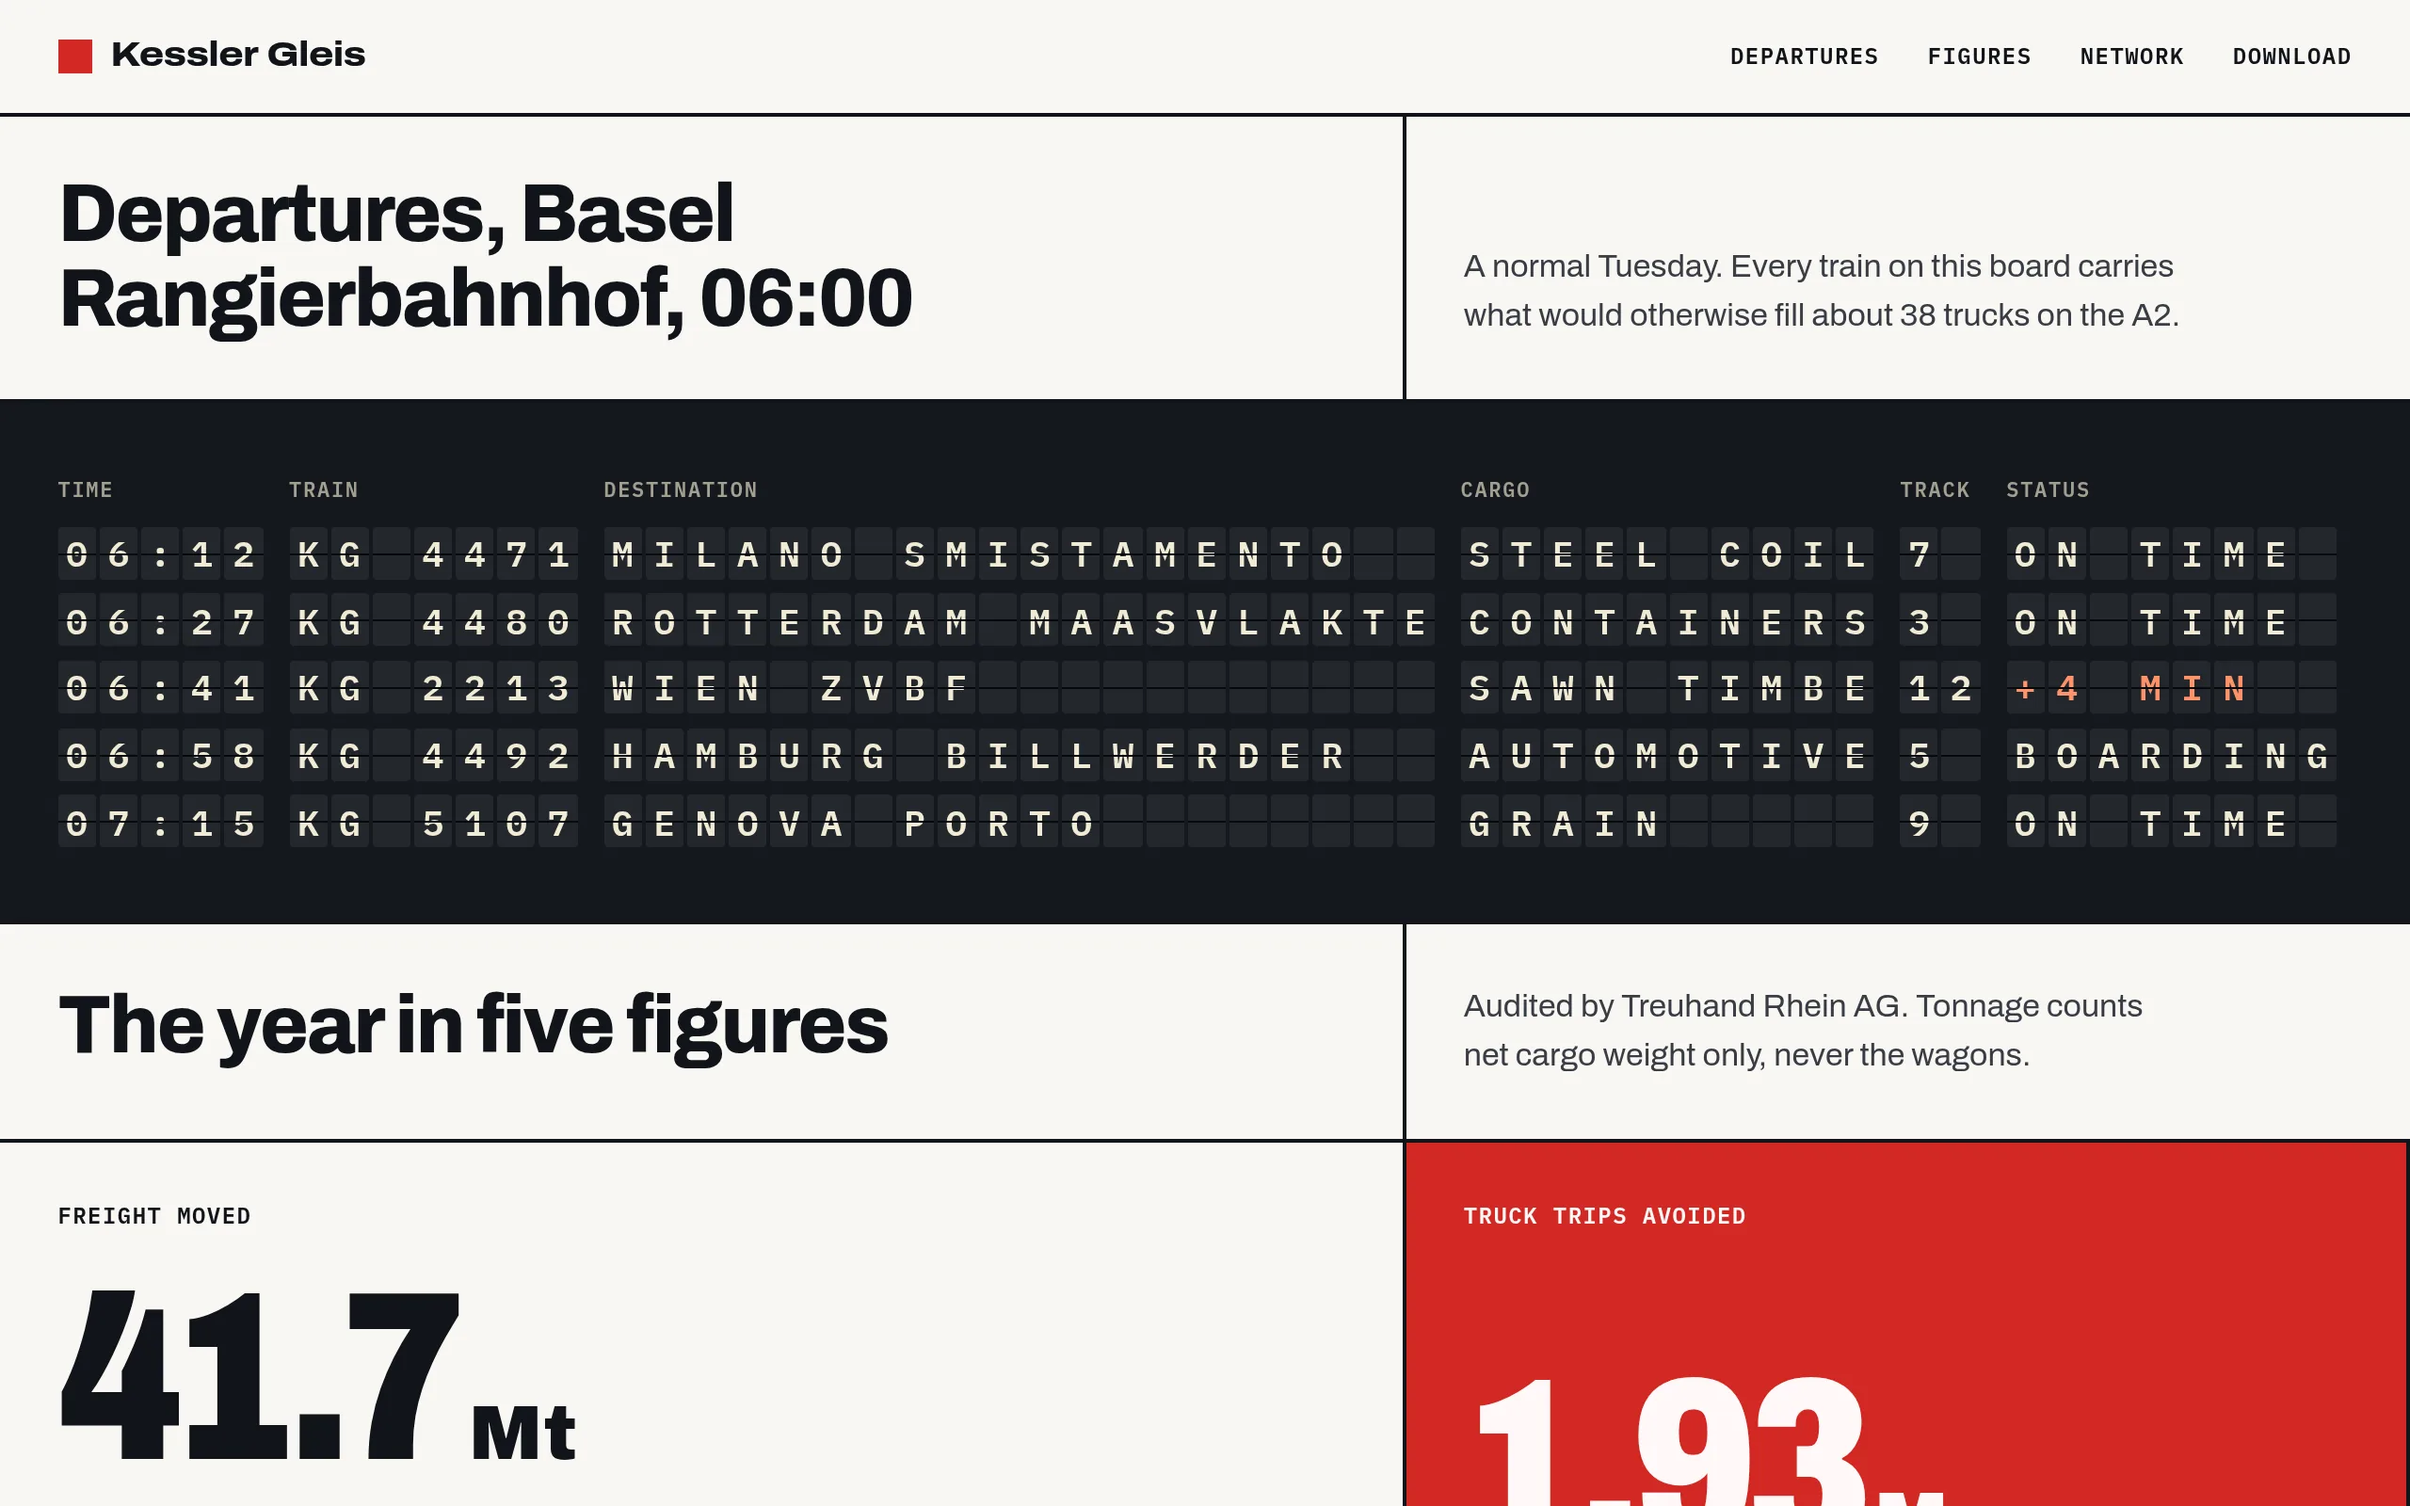
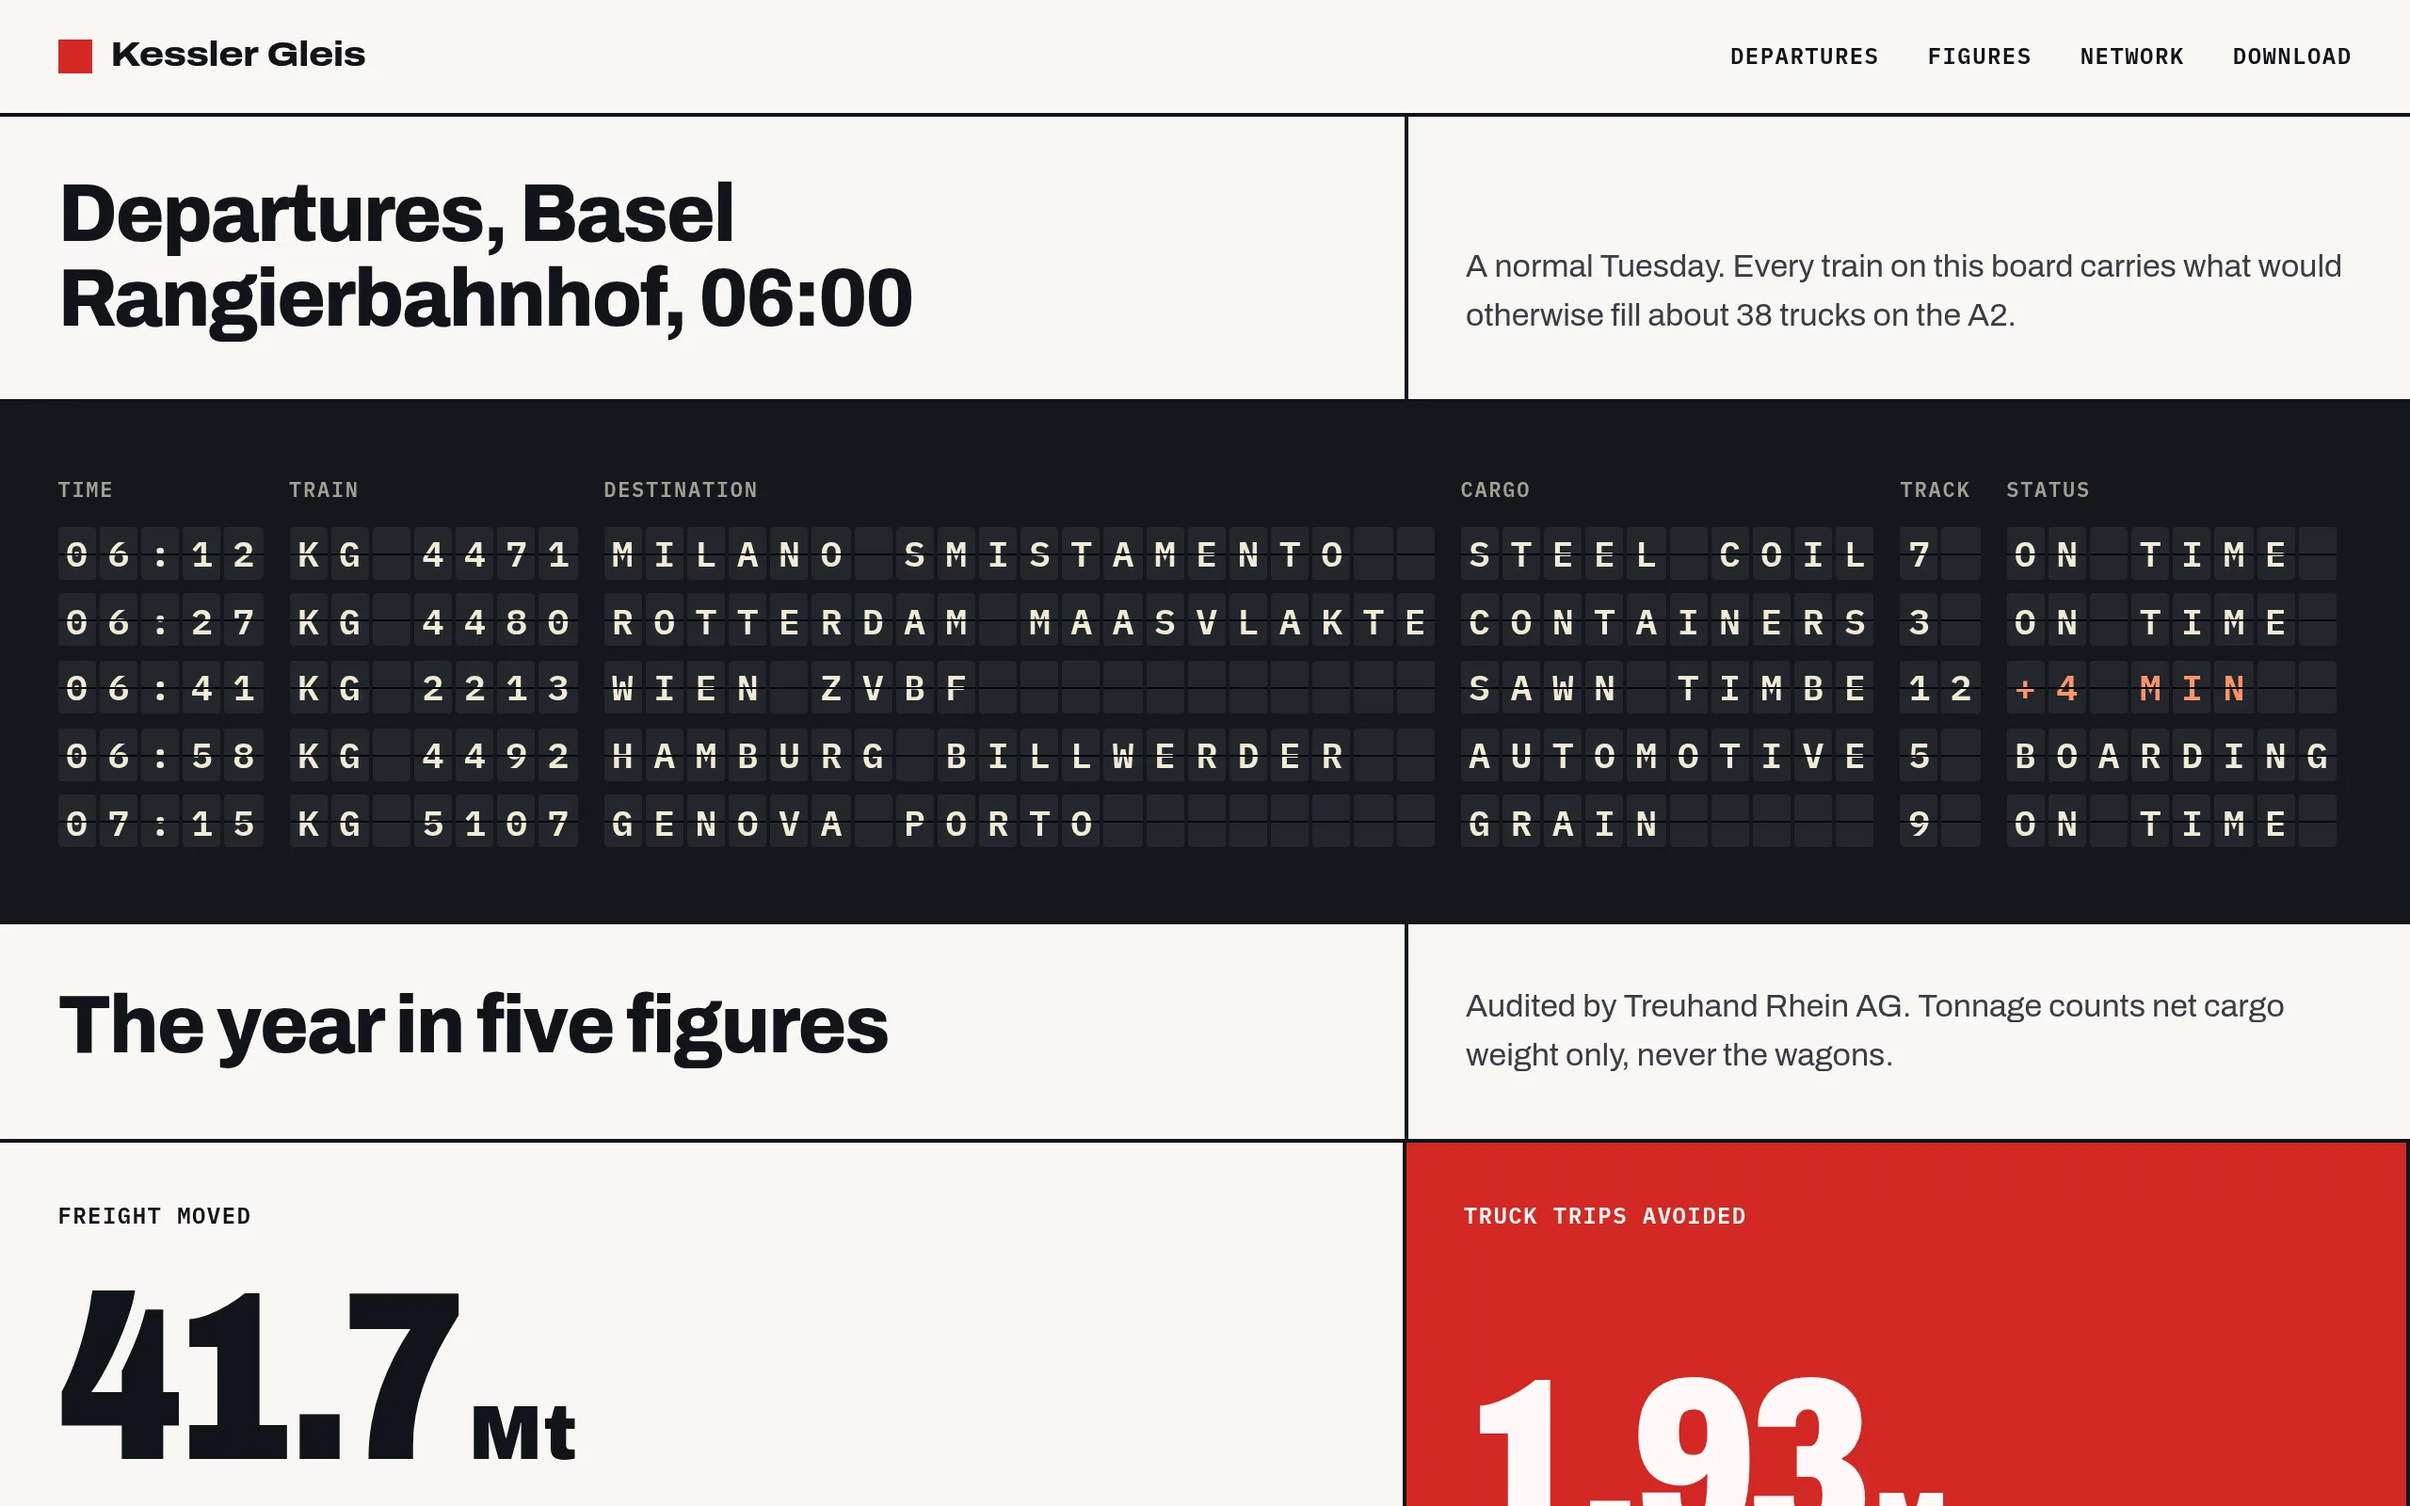
fix: preflight grid-rule false positive and template layout bugs
- preflight: SIDE_STRIPE_BORDER skips a side border paired with a
  top/bottom border of the same weight on the same line (a grid cell
  edge). Tests for the negative and positive case.
- swiss-report: section-head divider drawn as a grid gap instead of a
  lone border-right; the text cell fills its area (no ink showing
  through). Phone sideways scroll fixed at the root: screen-reader
  spans in the departure board escaped the scroller, so the scroller is
  now position:relative and the overflow-x:clip workaround is gone.
- depth-launch: springs critically damped (16, was 14.2) so layers no
  longer overshoot past the rim or plate and sort wrong; bottom row gains
  the missing right Ctrl (84 keys, 16u) in the lite page and the
  colourway preview.
- README screenshots refreshed; CHANGELOG updated.

Changed region(s): [[0.5938, 0.1562, 0.9688, 0.2188], [0.5938, 0.6562, 0.9375, 0.7188]]

diff --git a/templates/depth-launch.html b/templates/depth-launch.html
@@ -350,7 +350,7 @@ footer{padding:32px 0 48px;color:var(--muted);font-size:13px}
 
 <script>(() => {
 
-const D = {"W":760,"H":540,"pad":22,"up":[0,-1.1594243528753054],"boxA":[147.1,325.8,612.9,518],"boxB":[147.1,22,612.9,518],"order":["caps","switches","plate","pcb","foam"],"detail":{"caps":"keycaps · 84 caps","switches":"switches · 84 + 8 stabiliser housings","plate":"plate · FR4, 1.5 mm","pcb":"PCB · 1.6 mm, 84 footprints","foam":"foam and case · 3.5 mm poron, 12 gaskets"},"foot":-2,"travel":4,"stack0":36.6,"spring":{"stiffness":64,"damping":14.2,"substeps":4,"window":0.76,"lag":0.06},"keys":["esc","f1","f2","f3","f4","f5","f6","f7","f8","f9","f10","f11","f12","del","ins","prt","`","1","2","3","4","5","6","7","8","9","0","-","=","back","home","tab","q","w","e","r","t","y","u","i","o","p","[","]","\\","pgup","caps","a","s","d","f","g","h","j","k","l",";","'","enter","pgdn","shift","z","x","c","v","b","n","m",",",".","/","rshift","up","end","ctrl","opt","cmd","space","rcmd","fn","rctrl","left","down","right"],"codes":{"Backquote":"`","Minus":"-","Equal":"=","BracketLeft":"[","BracketRight":"]","Backslash":"\\","Semicolon":";","Quote":"'","Comma":",","Period":".","Slash":"/","Escape":"esc","Delete":"del","Insert":"ins","PrintScreen":"prt","Backspace":"back","Home":"home","Tab":"tab","PageUp":"pgup","CapsLock":"caps","Enter":"enter","NumpadEnter":"enter","PageDown":"pgdn","ShiftLeft":"shift","ShiftRight":"rshift","ArrowUp":"up","End":"end","ControlLeft":"ctrl","AltLeft":"opt","MetaLeft":"cmd","Space":"space","MetaRight":"rcmd","AltRight":"fn","ControlRight":"rctrl","ArrowLeft":"left","ArrowDown":"down","ArrowRight":"right"}};
+const D = {"W":760,"H":540,"pad":22,"up":[0,-1.1594243528753054],"boxA":[147.1,325.8,612.9,518],"boxB":[147.1,22,612.9,518],"order":["caps","switches","plate","pcb","foam"],"detail":{"caps":"keycaps · 84 caps","switches":"switches · 84 + 8 stabiliser housings","plate":"plate · FR4, 1.5 mm","pcb":"PCB · 1.6 mm, 84 footprints","foam":"foam and case · 3.5 mm poron, 12 gaskets"},"foot":-2,"travel":4,"stack0":36.6,"spring":{"stiffness":64,"damping":16,"substeps":4,"window":0.76,"lag":0.06},"keys":["esc","f1","f2","f3","f4","f5","f6","f7","f8","f9","f10","f11","f12","del","ins","prt","`","1","2","3","4","5","6","7","8","9","0","-","=","back","home","tab","q","w","e","r","t","y","u","i","o","p","[","]","\\","pgup","caps","a","s","d","f","g","h","j","k","l",";","'","enter","pgdn","shift","z","x","c","v","b","n","m",",",".","/","rshift","up","end","ctrl","opt","cmd","space","rcmd","fn","rctrl","left","down","right"],"codes":{"Backquote":"`","Minus":"-","Equal":"=","BracketLeft":"[","BracketRight":"]","Backslash":"\\","Semicolon":";","Quote":"'","Comma":",","Period":".","Slash":"/","Escape":"esc","Delete":"del","Insert":"ins","PrintScreen":"prt","Backspace":"back","Home":"home","Tab":"tab","PageUp":"pgup","CapsLock":"caps","Enter":"enter","NumpadEnter":"enter","PageDown":"pgdn","ShiftLeft":"shift","ShiftRight":"rshift","ArrowUp":"up","End":"end","ControlLeft":"ctrl","AltLeft":"opt","MetaLeft":"cmd","Space":"space","MetaRight":"rcmd","AltRight":"fn","ControlRight":"rctrl","ArrowLeft":"left","ArrowDown":"down","ArrowRight":"right"}};
 const fig = document.querySelector("[data-kb]");
 const stage = fig.querySelector(".kb-stage");
 const canvas = stage.querySelector(".kb-canvas");
@@ -504,7 +504,7 @@ const ROWS = [
   [['Tab',6,'mod'],...'Q W E R T Y U I O P [ ]'.split(' ').map(k=>[k,4]),['\\',6,'mod'],['PgUp',4,'mod']],
   [['Caps',7,'mod'],...'A S D F G H J K L ; \''.split(' ').map(k=>[k,4]),['Enter',9,'acc'],['PgDn',4,'mod']],
   [['Shift',9,'mod'],...'Z X C V B N M , . /'.split(' ').map(k=>[k,4]),['Shift',7,'mod'],['↑',4,'mod'],['End',4,'mod']],
-  [['Ctrl',5,'mod'],['Opt',5,'mod'],['Cmd',5,'mod'],['',25],['Cmd',4,'mod'],['Fn',4,'mod'],['←',4,'mod'],['↓',4,'mod'],['→',4,'mod']],
+  [['Ctrl',5,'mod'],['Opt',5,'mod'],['Cmd',5,'mod'],['',25],['Cmd',4,'mod'],['Fn',4,'mod'],['Ctrl',4,'mod'],['←',4,'mod'],['↓',4,'mod'],['→',4,'mod']],
 ];
 function fill(el, withLegend) {
   ROWS.forEach((row, r) => {

diff --git a/templates/swiss-report.html b/templates/swiss-report.html
@@ -27,7 +27,7 @@
 }
 *{box-sizing:border-box}
 html{-webkit-text-size-adjust:100%}
-body{margin:0;overflow-x:clip;background:var(--paper);color:var(--ink);font-family:"Archivo",system-ui,sans-serif;font-size:17px;line-height:1.55;font-variation-settings:"wdth" 100}
+body{margin:0;background:var(--paper);color:var(--ink);font-family:"Archivo",system-ui,sans-serif;font-size:17px;line-height:1.55;font-variation-settings:"wdth" 100}
 .mono{font-family:"IBM Plex Mono",ui-monospace,monospace}
 h1,h2,h3{text-wrap:balance;margin:0}
 p{text-wrap:pretty;margin:0}
@@ -65,13 +65,14 @@ a{color:inherit}
 @media (max-width:820px){.hero-main,.hero-side{grid-column:1/-1}.hero-side{border-top:0}}
 
 /* Section heading */
-.sec-head{grid-column:1/-1;display:grid;grid-template-columns:repeat(12,minmax(0,1fr));border-bottom:2px solid var(--ink)}
-.sec-head h2{grid-column:1/8;padding:var(--gut);font-size:clamp(28px,3.4vw,52px);line-height:1.04;letter-spacing:-.025em;font-weight:800;font-variation-settings:"wdth" 96;border-right:2px solid var(--ink)}
-.sec-head p{grid-column:8/-1;padding:var(--gut);color:var(--ink-2);align-self:end;max-width:46ch}
-@media (max-width:820px){.sec-head h2,.sec-head p{grid-column:1/-1;border-right:0}.sec-head p{padding-top:0}}
+.sec-head{grid-column:1/-1;display:grid;grid-template-columns:repeat(12,minmax(0,1fr));column-gap:2px;background:var(--ink);border-bottom:2px solid var(--ink)}
+.sec-head>*{background:var(--paper)}
+.sec-head h2{grid-column:1/8;padding:var(--gut);font-size:clamp(28px,3.4vw,52px);line-height:1.04;letter-spacing:-.025em;font-weight:800;font-variation-settings:"wdth" 96}
+.sec-head p{grid-column:8/-1;padding:var(--gut);color:var(--ink-2);display:grid;align-content:end}
+@media (max-width:820px){.sec-head{column-gap:0}.sec-head h2,.sec-head p{grid-column:1/-1}.sec-head p{padding-top:0}}
 
 /* Departure board */
-.board-wrap{grid-column:1/-1;background:var(--board);padding:var(--gut);overflow-x:auto;border-bottom:2px solid var(--ink)}
+.board-wrap{position:relative;grid-column:1/-1;background:var(--board);padding:var(--gut);overflow-x:auto;border-bottom:2px solid var(--ink)}
 table.board{border-collapse:separate;border-spacing:0 6px;min-width:760px;width:100%;color:var(--flap-ink)}
 .board th{font:600 11px/1 "IBM Plex Mono",monospace;text-transform:uppercase;letter-spacing:.08em;text-align:left;color:oklch(70% .02 95);padding:4px 10px 8px 0}
 .board td{padding:0 14px 0 0;white-space:nowrap}

diff --git a/templates/depth-launch-lite.html b/templates/depth-launch-lite.html
@@ -233,7 +233,7 @@ const ROWS = [
   [['Tab',6,'mod'],...'Q W E R T Y U I O P [ ]'.split(' ').map(k=>[k,4]),['\\',6,'mod'],['PgUp',4,'mod']],
   [['Caps',7,'mod'],...'A S D F G H J K L ; \''.split(' ').map(k=>[k,4]),['Enter',9,'acc'],['PgDn',4,'mod']],
   [['Shift',9,'mod'],...'Z X C V B N M , . /'.split(' ').map(k=>[k,4]),['Shift',7,'mod'],['↑',4,'mod'],['End',4,'mod']],
-  [['Ctrl',5,'mod'],['Opt',5,'mod'],['Cmd',5,'mod'],['',25],['Cmd',4,'mod'],['Fn',4,'mod'],['←',4,'mod'],['↓',4,'mod'],['→',4,'mod']],
+  [['Ctrl',5,'mod'],['Opt',5,'mod'],['Cmd',5,'mod'],['',25],['Cmd',4,'mod'],['Fn',4,'mod'],['Ctrl',4,'mod'],['←',4,'mod'],['↓',4,'mod'],['→',4,'mod']],
 ];
 function fill(el, withLegend) {
   ROWS.forEach((row, r) => {

diff --git a/CHANGELOG.md b/CHANGELOG.md
@@ -15,9 +15,9 @@ The format is based on [Keep a Changelog](https://keepachangelog.com/en/1.1.0/).
 - `docs/images/`: README screenshots of both templates (desktop and phone).
 - README `Templates` section and a `Templates` pointer in `SKILL.md`.
 
-### Known issues
+### Fixed
 
-- `scripts/preflight.mjs` reports `SIDE_STRIPE_BORDER` on `templates/swiss-report.html`: the 2px ink borders there are the structural grid rules of the Swiss layout, not coloured accent stripes. The rule needs to tell structural grid borders apart from decorative stripes.
+- `scripts/preflight.mjs`: `SIDE_STRIPE_BORDER` no longer fires when the side border sits on the same line as a top or bottom border of the same weight (a grid cell edge, not an accent stripe). Two tests cover the negative and positive case.
 
 ## [2.1.0] - 2026-09-25
 
